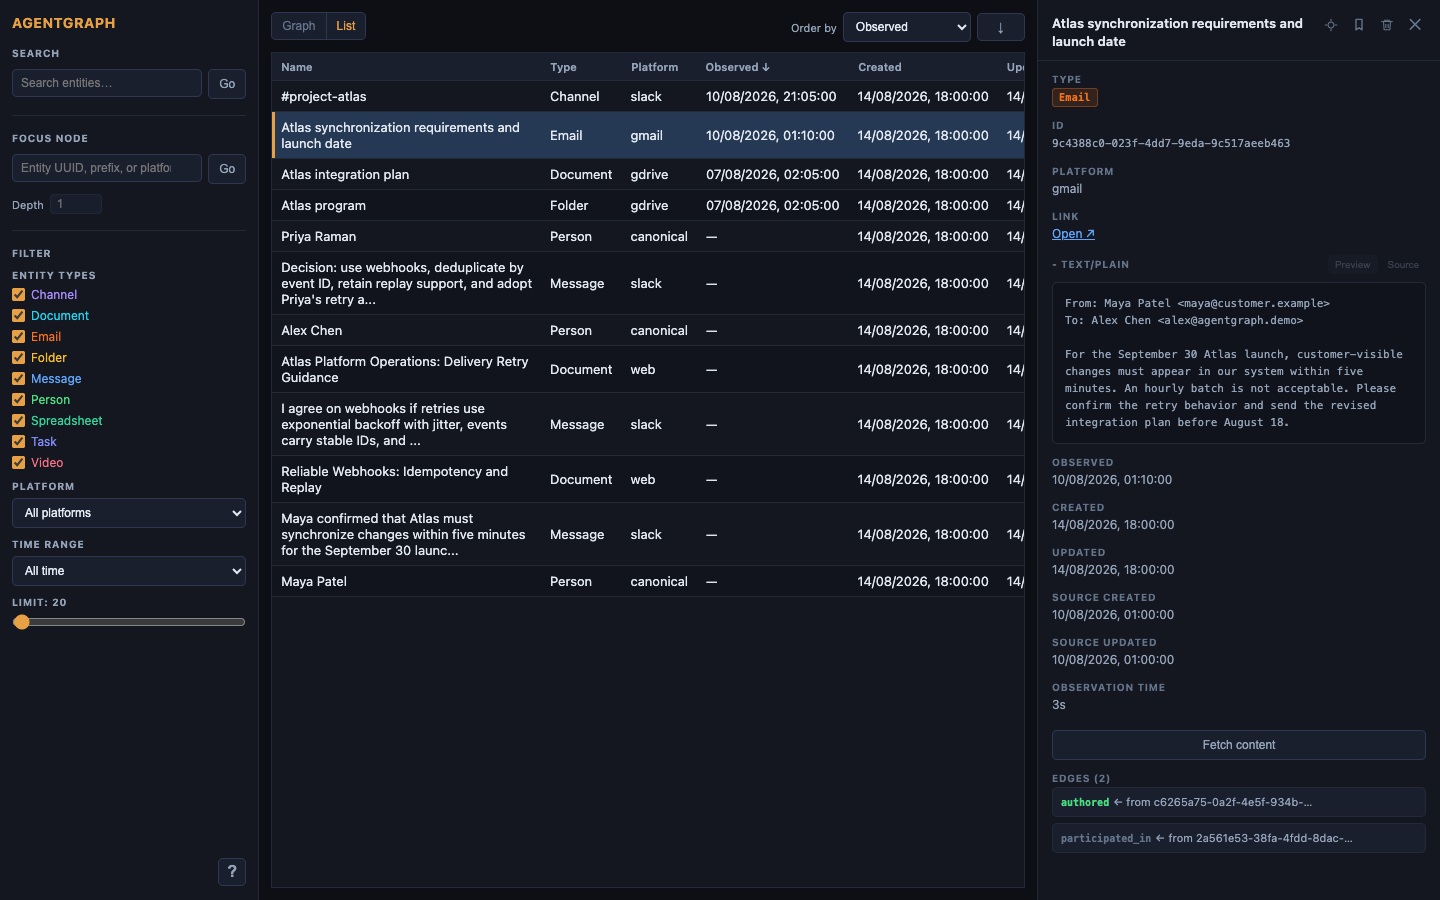
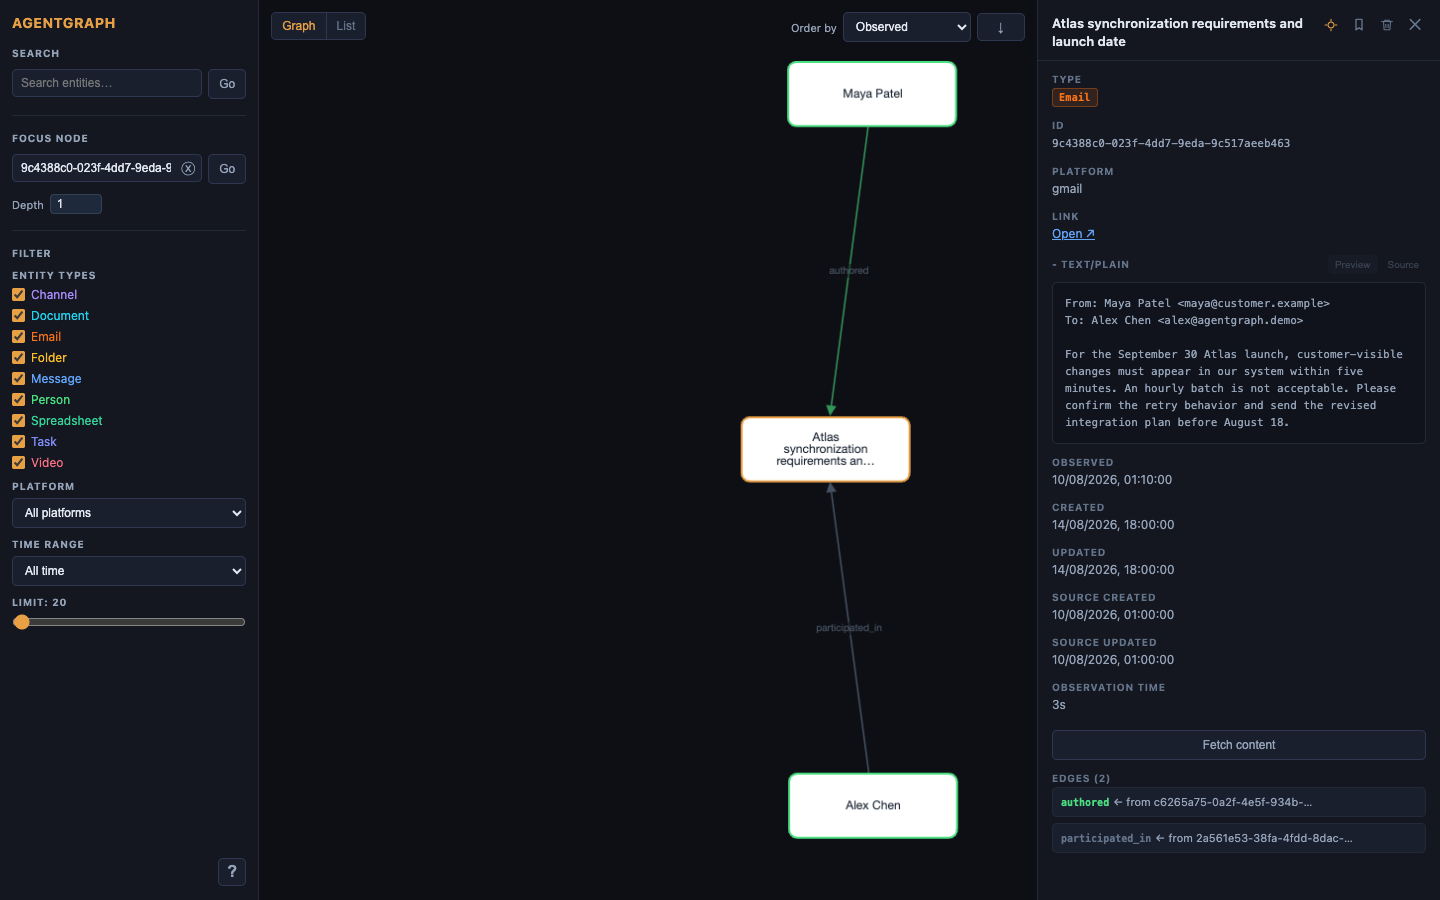
docs: clarify graph and entity detail screenshots

diff --git a/tests/test_docs_build.py b/tests/test_docs_build.py
@@ -100,7 +100,7 @@ def test_viewer_page_builds_with_screenshots_and_demo_link(
     assert 'href="viewer.html">viewer overview</a>' in demo_html
     assert "Explore relationships" in viewer_html
     assert "Browse and filter" in viewer_html
-    assert "Inspect an entity" in viewer_html
+    assert "Focus an entity to view its details" in viewer_html
     for name in ("graph", "list", "details"):
         image_path = output_dir / "assets" / "viewer" / f"{name}.png"
         assert image_path.is_file()

diff --git a/docs-src/viewer.md b/docs-src/viewer.md
@@ -13,11 +13,20 @@ Start the local server with `agentgraph serve`, then open [the viewer](http://12
 
 ## Explore relationships
 
-The graph connects entities and people with labeled edges. Focus on an entity to see its nearby relationships; change the depth to expand or narrow that view.
+The graph connects entities and people with labeled edges. Focus on an entity and change the depth to expand or narrow its nearby relationships.
 
 <figure class="architecture-figure architecture-figure-fit">
   <a href="/assets/viewer/graph.png"><img src="/assets/viewer/graph.png" alt="Graph view focused on an Atlas email, with authored and participated-in connections to Maya Patel and Alex Chen."></a>
-  <figcaption>A focused email and its connected people in the graph view.</figcaption>
+  <figcaption>A six-entity neighborhood around an Atlas email, with the details panel closed.</figcaption>
+</figure>
+
+## Focus an entity to view its details
+
+Select a graph node or list row to open its details. The panel shows available content, a source link, dates, and connected edges. You can bookmark an entity to protect it from [automatic expiry](/retention.html).
+
+<figure class="architecture-figure architecture-figure-fit">
+  <a href="/assets/viewer/details.png"><img src="/assets/viewer/details.png" alt="Graph view focused on an Atlas email with its info panel open, showing email content, source link, dates, and related edges."></a>
+  <figcaption>Selecting the email opens its details alongside the focused graph.</figcaption>
 </figure>
 
 ## Browse and filter
@@ -27,13 +36,4 @@ Switch to List to scan entities by name, type, platform, and dates. Search acros
 <figure class="architecture-figure architecture-figure-fit">
   <a href="/assets/viewer/list.png"><img src="/assets/viewer/list.png" alt="List view of fictional Atlas entities with search, type and platform filters, and sortable date columns."></a>
   <figcaption>The list view shows Atlas records from several sources in one place.</figcaption>
-</figure>
-
-## Inspect an entity
-
-Select a graph node or list row to open its details. The panel shows available content, a source link, dates, and connected edges. You can focus the graph on the selected entity or bookmark it to protect it from [automatic expiry](/retention.html).
-
-<figure class="architecture-figure architecture-figure-fit">
-  <a href="/assets/viewer/details.png"><img src="/assets/viewer/details.png" alt="Detail panel for the fictional Atlas synchronization email, showing its content, source link, dates, and related edges beside the selected list row."></a>
-  <figcaption>The detail panel exposes the source content and relationships behind a selected entity.</figcaption>
 </figure>
